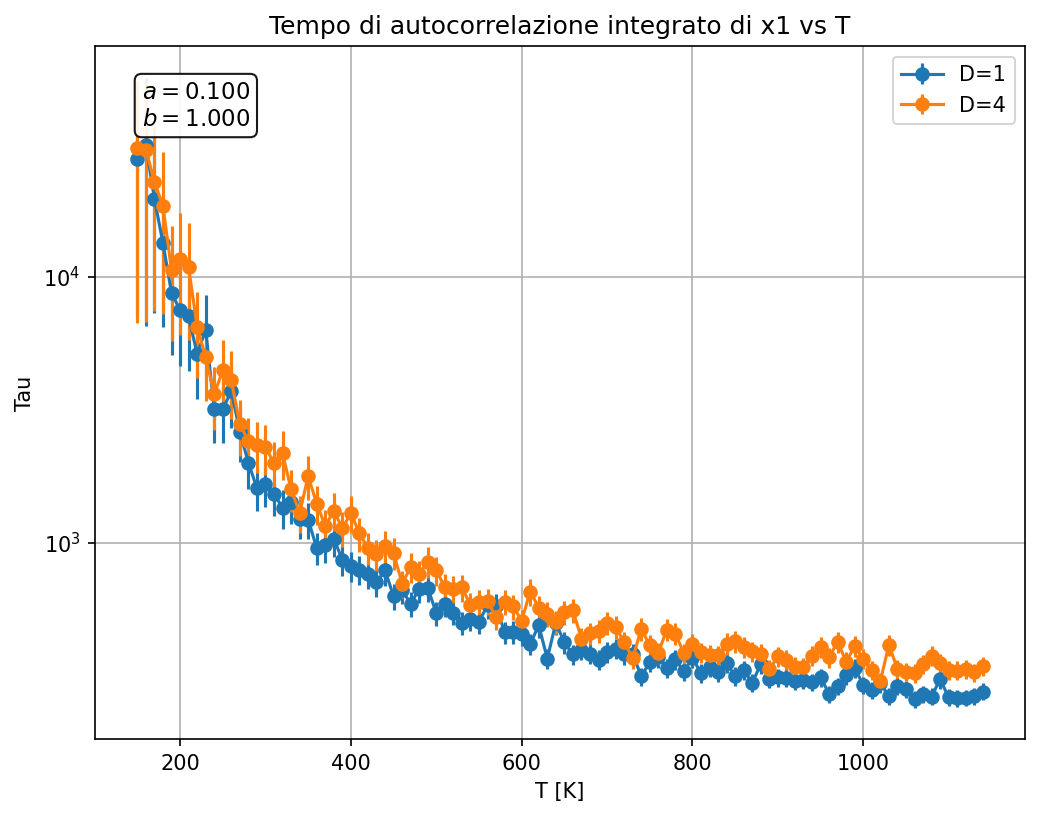
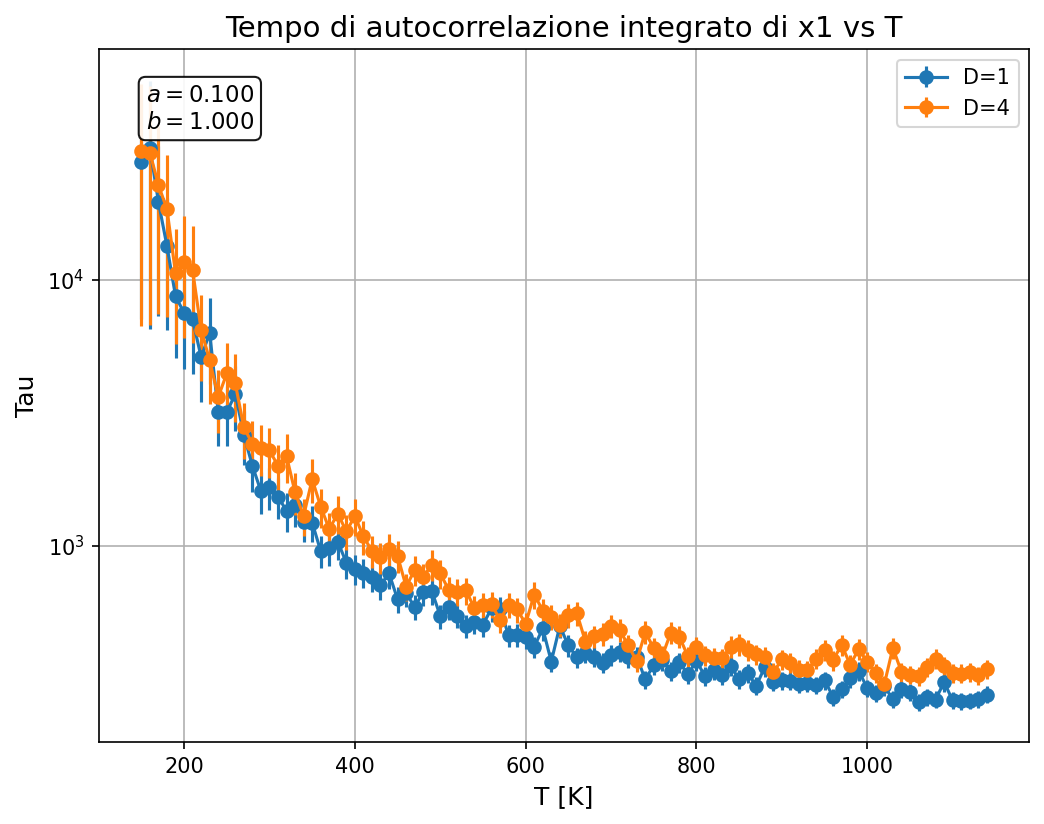
changes

diff --git a/source/plot.py b/source/plot.py
@@ -5,6 +5,16 @@ import jax
 import jax.numpy as jnp
 from typing import Callable
 
+plt.rcParams.update({
+    'font.size': 14,          # Dimensione generale del font
+    'axes.labelsize': 12,     # Dimensione etichette x e y
+    'axes.titlesize': 14,     # Dimensione titolo del grafico
+    'xtick.labelsize': 10,    # Dimensione tick sulle x
+    'ytick.labelsize': 10,    # Dimensione tick sulle y
+    'legend.fontsize': 10,    # Dimensione legenda
+    'figure.titlesize': 14
+})
+
 REPORT_DIR = os.path.join(os.path.dirname(__file__), "..", "report")
 
 def _ensure_report_dir():
